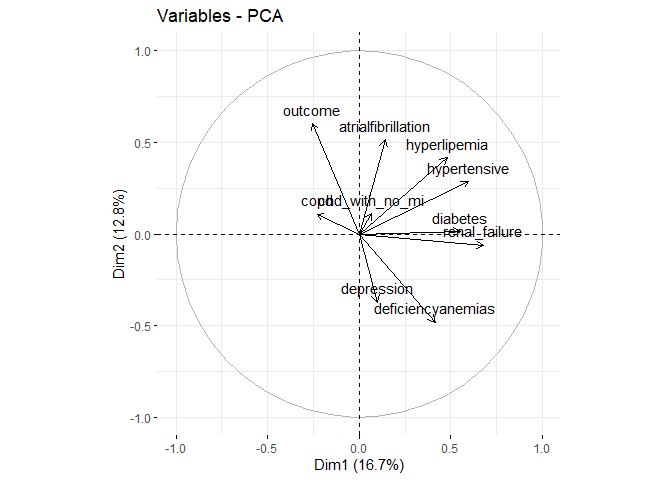
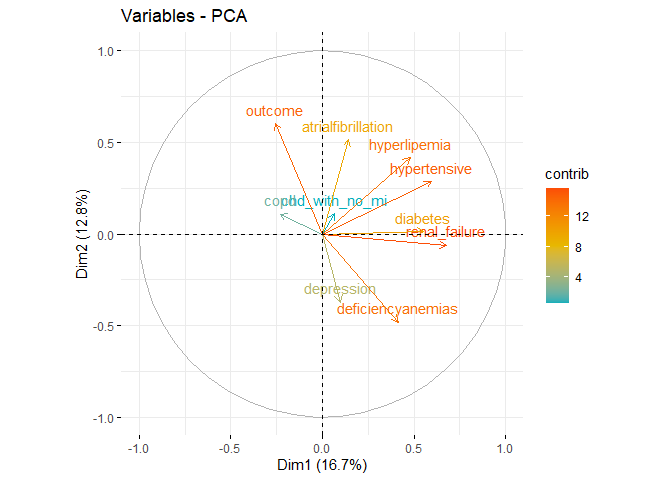
adding pca plots

diff --git a/Felix_EDA.md b/Felix_EDA.md
@@ -268,10 +268,16 @@ fviz_eig(res_pca_com, addlabels = TRUE, ylim = c(0, 50))
 ![](Felix_EDA_files/figure-gfm/unnamed-chunk-7-1.png)<!-- -->
 
 ``` r
-fviz_pca_var(res_pca_com, col.var = "black")
+fviz_pca_var(res_pca_com, col.var = "contrib", gradient.cols = c("#00AFBB", "#E7B800", "#FC4E07"))
 ```
 
 ![](Felix_EDA_files/figure-gfm/unnamed-chunk-7-2.png)<!-- -->
+
+``` r
+fviz_contrib(res_pca_com, choice = "var", axes = 1, top = 10) 
+```
+
+![](Felix_EDA_files/figure-gfm/unnamed-chunk-7-3.png)<!-- -->
 
 ``` r
 #pca_sign
@@ -319,7 +325,13 @@ fviz_eig(res_pca_sign, addlabels = TRUE, ylim = c(0, 50))
 ![](Felix_EDA_files/figure-gfm/unnamed-chunk-8-1.png)<!-- -->
 
 ``` r
-fviz_pca_var(res_pca_sign, col.var = "black")
+fviz_pca_var(res_pca_sign, col.var = "contrib", gradient.cols = c("#00AFBB", "#E7B800", "#FC4E07"))
 ```
 
 ![](Felix_EDA_files/figure-gfm/unnamed-chunk-8-2.png)<!-- -->
+
+``` r
+fviz_contrib(res_pca_sign, choice = "var", axes = 1, top = 10)
+```
+
+![](Felix_EDA_files/figure-gfm/unnamed-chunk-8-3.png)<!-- -->
